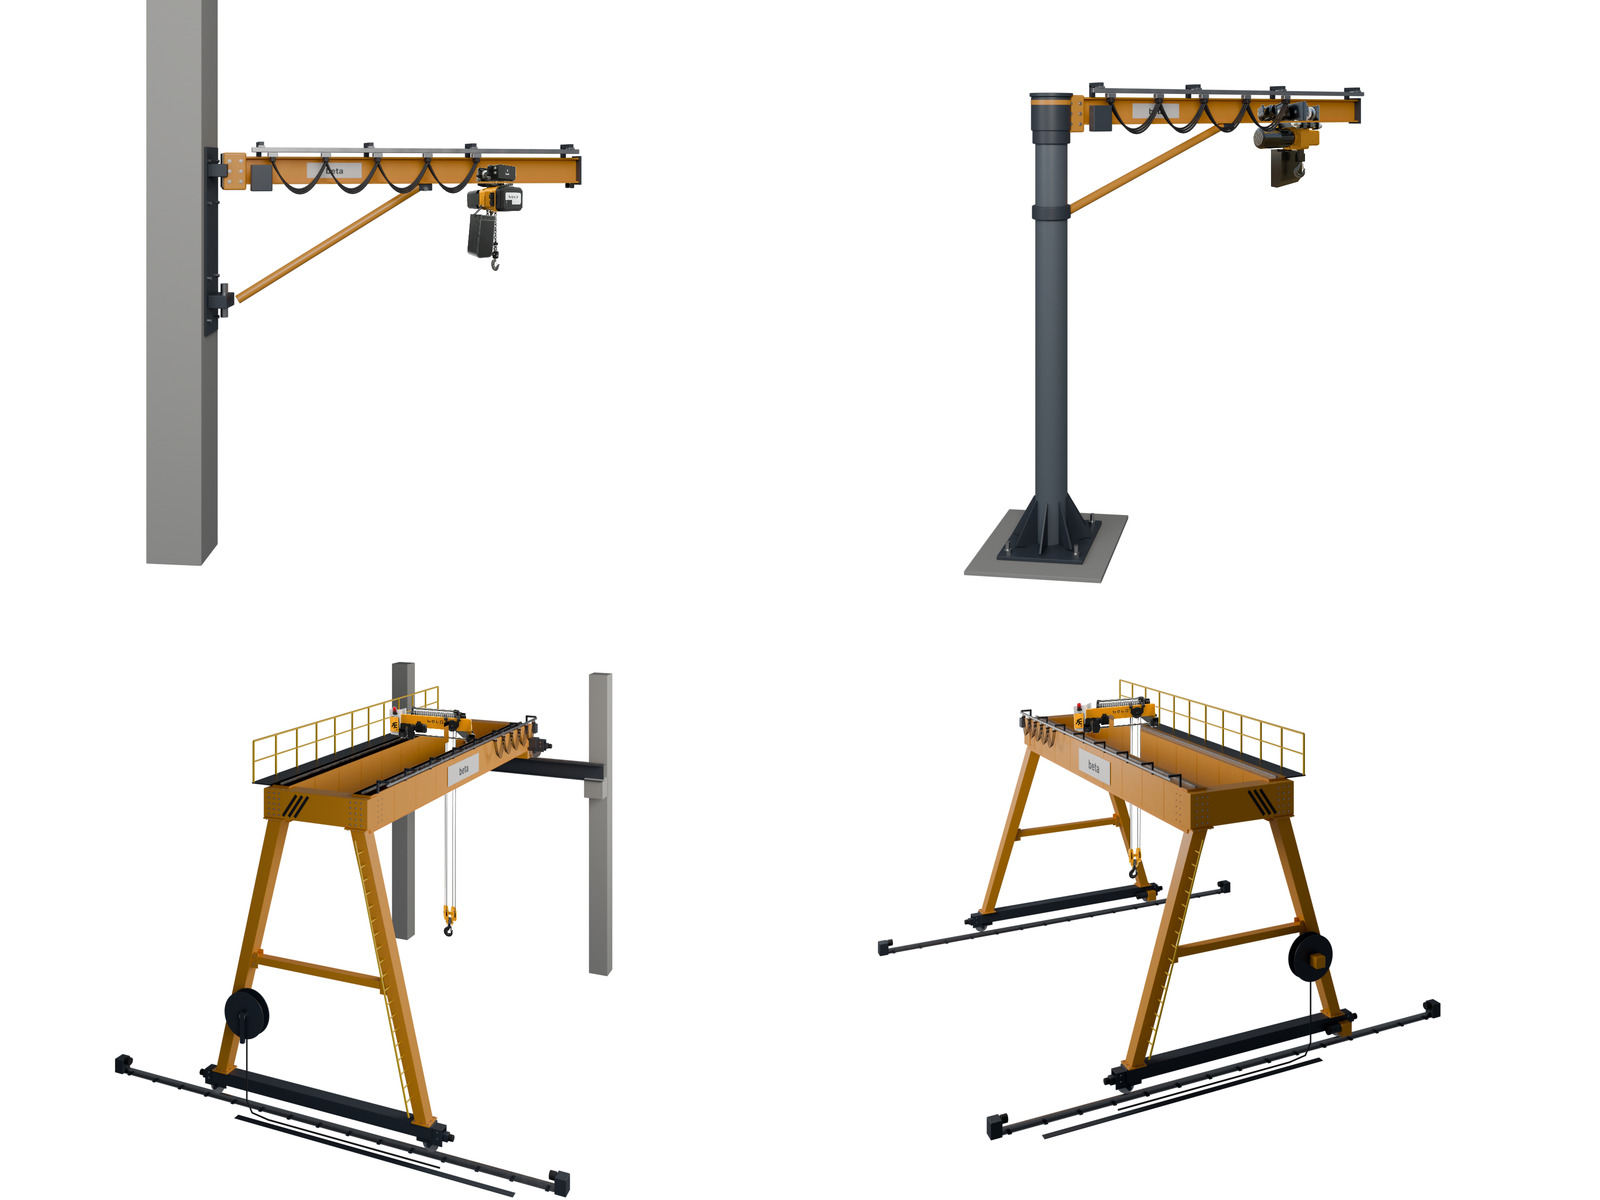
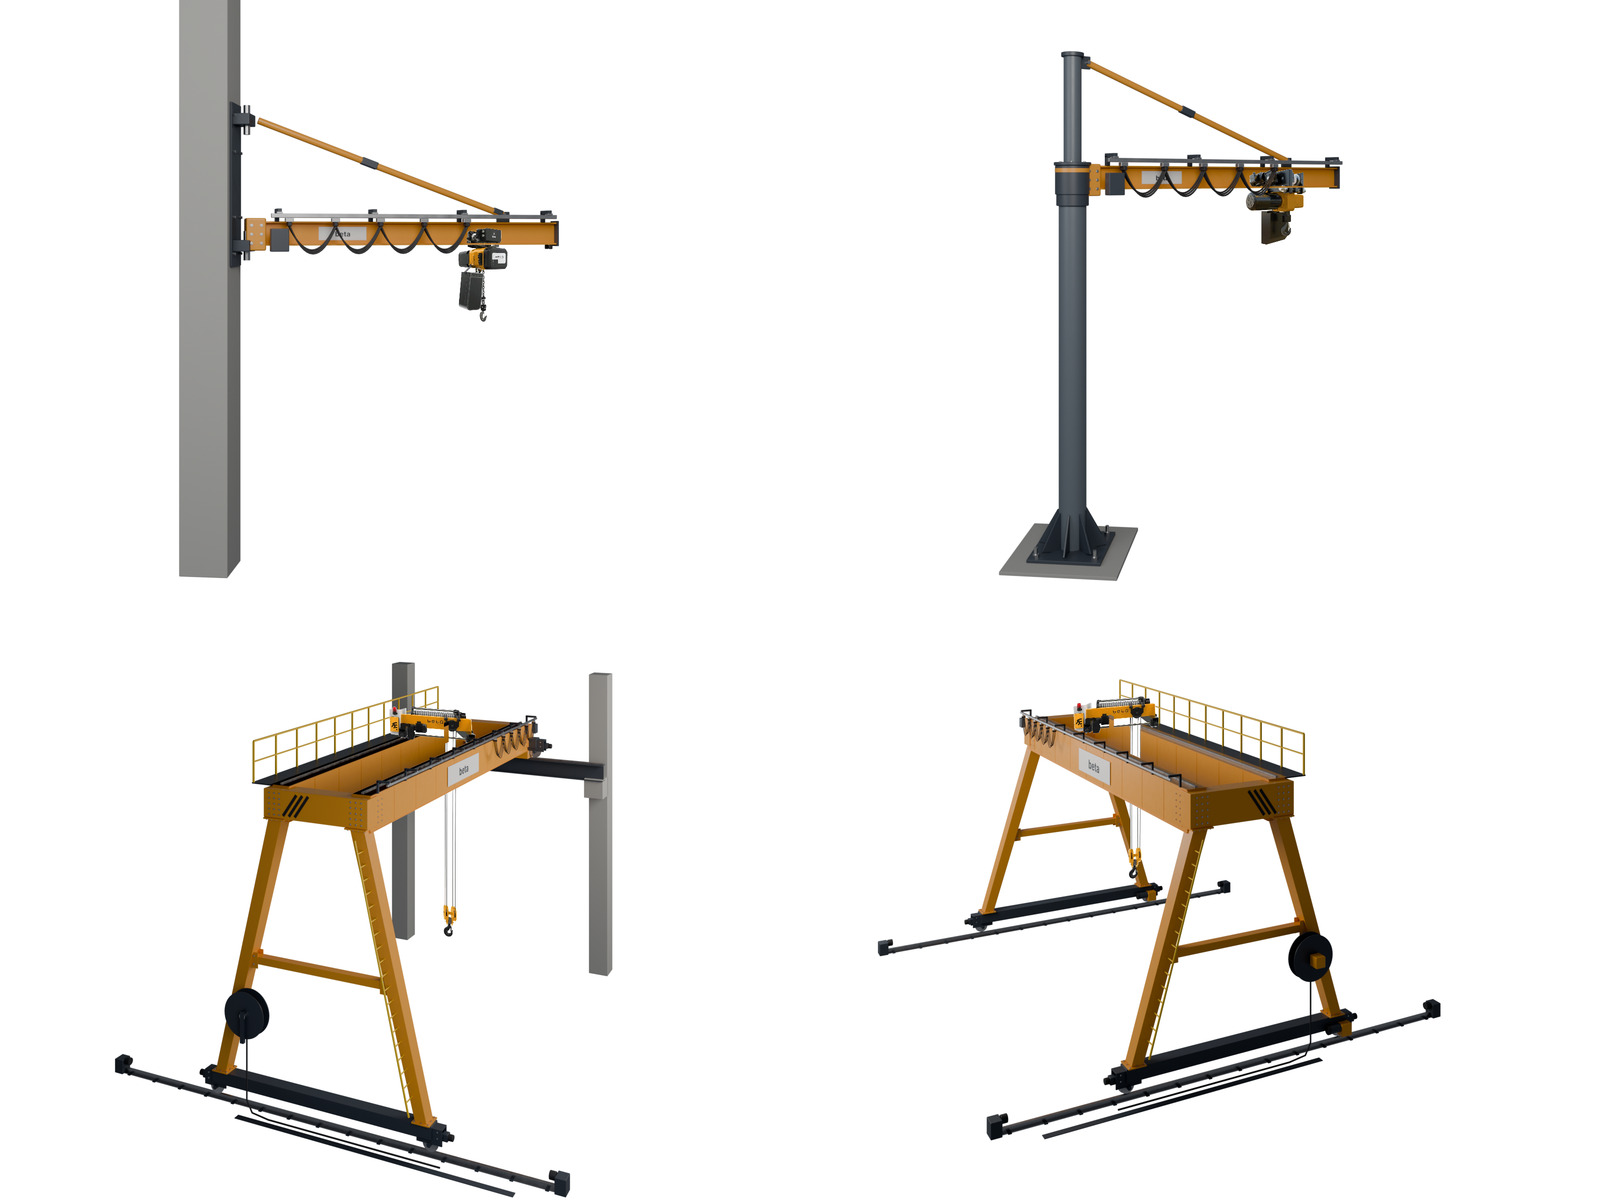
Pergeller üstten gergili: alt flanş caraskal için serbest
Claude-Session: https://claude.ai/code/session_01BwJWWo6Yo4AefWjfCSnerb

Changed region(s): [[0.0938, 0.0, 0.375, 0.4933], [0.5938, 0.0308, 0.875, 0.4933]]

diff --git a/kaynak/render_vincler.py b/kaynak/render_vincler.py
@@ -956,11 +956,12 @@ def sahne_duvar_pergel(M):
     SAPMA, YUKSEKLIK = 22, 0  # zincirli vinç fotoğrafının çekim açısı (soldan, yukarıdan; derece)
     g = bos("pergel", (0.12, 0, 0), (0, 0, math.radians(SAPMA if YAN else 18)))
     # duvar konsolu (sabit)
-    kutu("konsol_plaka", (0.03, 0.42, 2.0), (0.015, 0, 3.4), M["antrasit"], bevel=0.004)
-    for z in (4.15, 2.75):
+    # üstten gergili: alt mafsal bom kökünde, üst mafsal bomun 1,3 m üstünde (alt flanş caraskal için serbest)
+    kutu("konsol_plaka", (0.03, 0.42, 2.0), (0.015, 0, 4.75), M["antrasit"], bevel=0.004)
+    for z in (4.0, 5.55):
         kutu(f"konsol_kulak{z}", (0.22, 0.30, 0.14), (0.12, 0, z), M["antrasit"], bevel=0.01)
         silindir(f"pim{z}", 0.04, 0.36, (0.16, 0, z), M["celik"])
-    for zz in (2.55, 3.0, 3.8, 4.25):
+    for zz in (3.9, 4.35, 5.15, 5.6):
         for yy in (-0.15, 0.15):
             silindir(f"civata{zz}{yy}", 0.018, 0.04, (0.04, yy, zz), M["celik"], axis="X", seg=6)
     # bom (IPE 300)
@@ -971,12 +972,14 @@ def sahne_duvar_pergel(M):
     bom_logo(M, g, 1.25, zb)
     for sy in (-1, 1):
         kutu(f"stoper{sy}", (0.05, 0.03, 0.06), (4.12, sy * 0.06, zb - 0.33), M["siyah"], g, bevel=0.01)
-    # gergi
-    p1 = (0.18, 0, 2.75)
-    p2 = (2.3, 0, zb - 0.30)
-    boru("gergi", p1, p2, 0.048, M["turuncu"], g)
-    kutu("gergi_ust_kulak", (0.16, 0.10, 0.08), (2.3, 0, zb - 0.34), M["antrasit"], g, bevel=0.008)
-    silindir("gergi_ust_pim", 0.025, 0.14, (2.3, 0, zb - 0.36), M["celik"], g, axis="Y")
+    # gergi: üst mafsaldan bomun üst flanşındaki kulağa
+    xg = 3.45
+    boru("gergi", (0.18, 0, 5.55), (xg, 0, zb + 0.10), 0.042, M["turuncu"], g)
+    kutu("gergi_bom_kulak", (0.18, 0.03, 0.14), (xg, 0, zb + 0.07), M["antrasit"], g, bevel=0.006)
+    silindir("gergi_bom_pim", 0.022, 0.12, (xg, 0, zb + 0.10), M["celik"], g, axis="Y")
+    kutu("gergi_catal", (0.14, 0.09, 0.07), (xg - 0.08, 0, zb + 0.14), M["antrasit"], g, bevel=0.01, rot=(0, math.radians(20), 0))
+    kutu("gergi_gerdirme", (0.22, 0.09, 0.09), (1.6, 0, 5.55 - (5.55 - zb - 0.1) * (1.42 / 3.27)), M["antrasit"], g, bevel=0.01,
+         rot=(0, math.atan2(5.55 - zb - 0.1, 3.27), 0))
     civata_izgara("bom_kok_c", (0.14, -0.132, zb - 0.16), (1, 0, 0), (0, 0, 1), 2, 3, 0.12, 0.11, "-Y", M, g, r=0.013)
     festoon("festoon", 0.3, 4.1, -0.27, zb + 0.07, 0.4, 3.25 - 0.42, M, g, n=5, L=1.1,
             y_konsol=-0.07, z_konsol=zb, aralik=1.2)
@@ -987,7 +990,7 @@ def sahne_duvar_pergel(M):
     if not BEYAZ:
         palet(M, (4.6, 0.1, 0), 0.35)
     if YAN:
-        foto_kamera(g, (3.25, 0, zb - 0.15), SAPMA, YUKSEKLIK, 11.5, (2.0, 0.6, 2.7), lens=44)
+        foto_kamera(g, (3.25, 0, zb - 0.15), SAPMA, YUKSEKLIK, 12.5, (2.0, 0.6, 3.3), lens=42)
     else:
         kamera((4.6, -5.6, 2.6), (2.1, 0.3, 3.05), lens=34, dof=9)
     anahtar_isik((4, -9, 8), (2, 0, 2), 1800, boyut=6)
@@ -1023,10 +1026,21 @@ def sahne_kolon_pergel(M):
     kutu("bom_kok", (0.22, 0.26, 0.40), (0.22, 0, zb - 0.18), M["turuncu"], g, bevel=0.02)
     kutu("bom_uc", (0.02, 0.22, 0.34), (4.41, 0, zb - 0.15), M["antrasit"], g, bevel=0.004)
     bom_logo(M, g, 1.3, zb)
-    # gergi (kolon bileziğinden)
-    silindir("alt_bilezik", 0.205, 0.14, (0, 0, H - 0.75), M["antrasit"], g, seg=64, bevel=0.01)
-    boru("gergi", (0.2, 0, H - 0.75), (2.3, 0, zb - 0.30), 0.048, M["turuncu"], g)
-    kutu("gergi_ust_kulak", (0.16, 0.10, 0.08), (2.3, 0, zb - 0.34), M["antrasit"], g, bevel=0.008)
+    # üstten gergi: dönen başlık üstünde direk, tepesinden bomun üst flanşına (alt flanş serbest)
+    zd = zb + 1.35
+    silindir("direk", 0.11, zd - (H + 0.52), (0, 0, (zd + H + 0.52) / 2), M["gri"], g, seg=48)
+    silindir("direk_kapak", 0.14, 0.05, (0, 0, zd + 0.025), M["antrasit"], g, seg=48, bevel=0.006)
+    kutu("direk_kulak", (0.20, 0.03, 0.16), (0.14, 0, zd - 0.06), M["antrasit"], g, bevel=0.006)
+    silindir("direk_pim", 0.022, 0.12, (0.2, 0, zd - 0.06), M["celik"], g, axis="Y")
+    xg = 3.45
+    boru("gergi", (0.2, 0, zd - 0.06), (xg, 0, zb + 0.10), 0.042, M["turuncu"], g)
+    kutu("gergi_bom_kulak", (0.18, 0.03, 0.14), (xg, 0, zb + 0.07), M["antrasit"], g, bevel=0.006)
+    silindir("gergi_bom_pim", 0.022, 0.12, (xg, 0, zb + 0.10), M["celik"], g, axis="Y")
+    kutu("gergi_gerdirme", (0.22, 0.09, 0.09), (1.7, 0, zd - 0.06 - (zd - 0.16 - zb) * (1.5 / 3.25)), M["antrasit"], g, bevel=0.01,
+         rot=(0, math.atan2(zd - 0.16 - zb, 3.25), 0))
+    for i in range(6):  # direk - başlık flanşı
+        a_ = i * math.pi / 3
+        civata(f"direk_c{i}", (0.17 * math.cos(a_), 0.17 * math.sin(a_), H + 0.52), "Z", M, g, r=0.011)
     civata_izgara("bom_kok_c", (0.22, -0.132, zb - 0.18), (1, 0, 0), (0, 0, 1), 2, 3, 0.11, 0.11, "-Y", M, g, r=0.013)
     for i in range(10):
         a_ = i * 2 * math.pi / 10
@@ -1039,7 +1053,7 @@ def sahne_kolon_pergel(M):
     if not BEYAZ:
         palet(M, (4.4, -0.6, 0), 0.3)
     if YAN:
-        foto_kamera(g, (3.45, 0, zb - 0.15), SAPMA, YUKSEKLIK, 11.5, (1.5, 0.9, 2.45), lens=40)
+        foto_kamera(g, (3.45, 0, zb - 0.15), SAPMA, YUKSEKLIK, 12.5, (1.5, 0.9, 3.0), lens=38)
     else:
         kamera((4.4, -6.6, 2.4), (2.0, 0.3, 2.65), lens=32, dof=9)
     anahtar_isik((3, -9, 8), (1.5, 0, 2), 1800, boyut=6)
